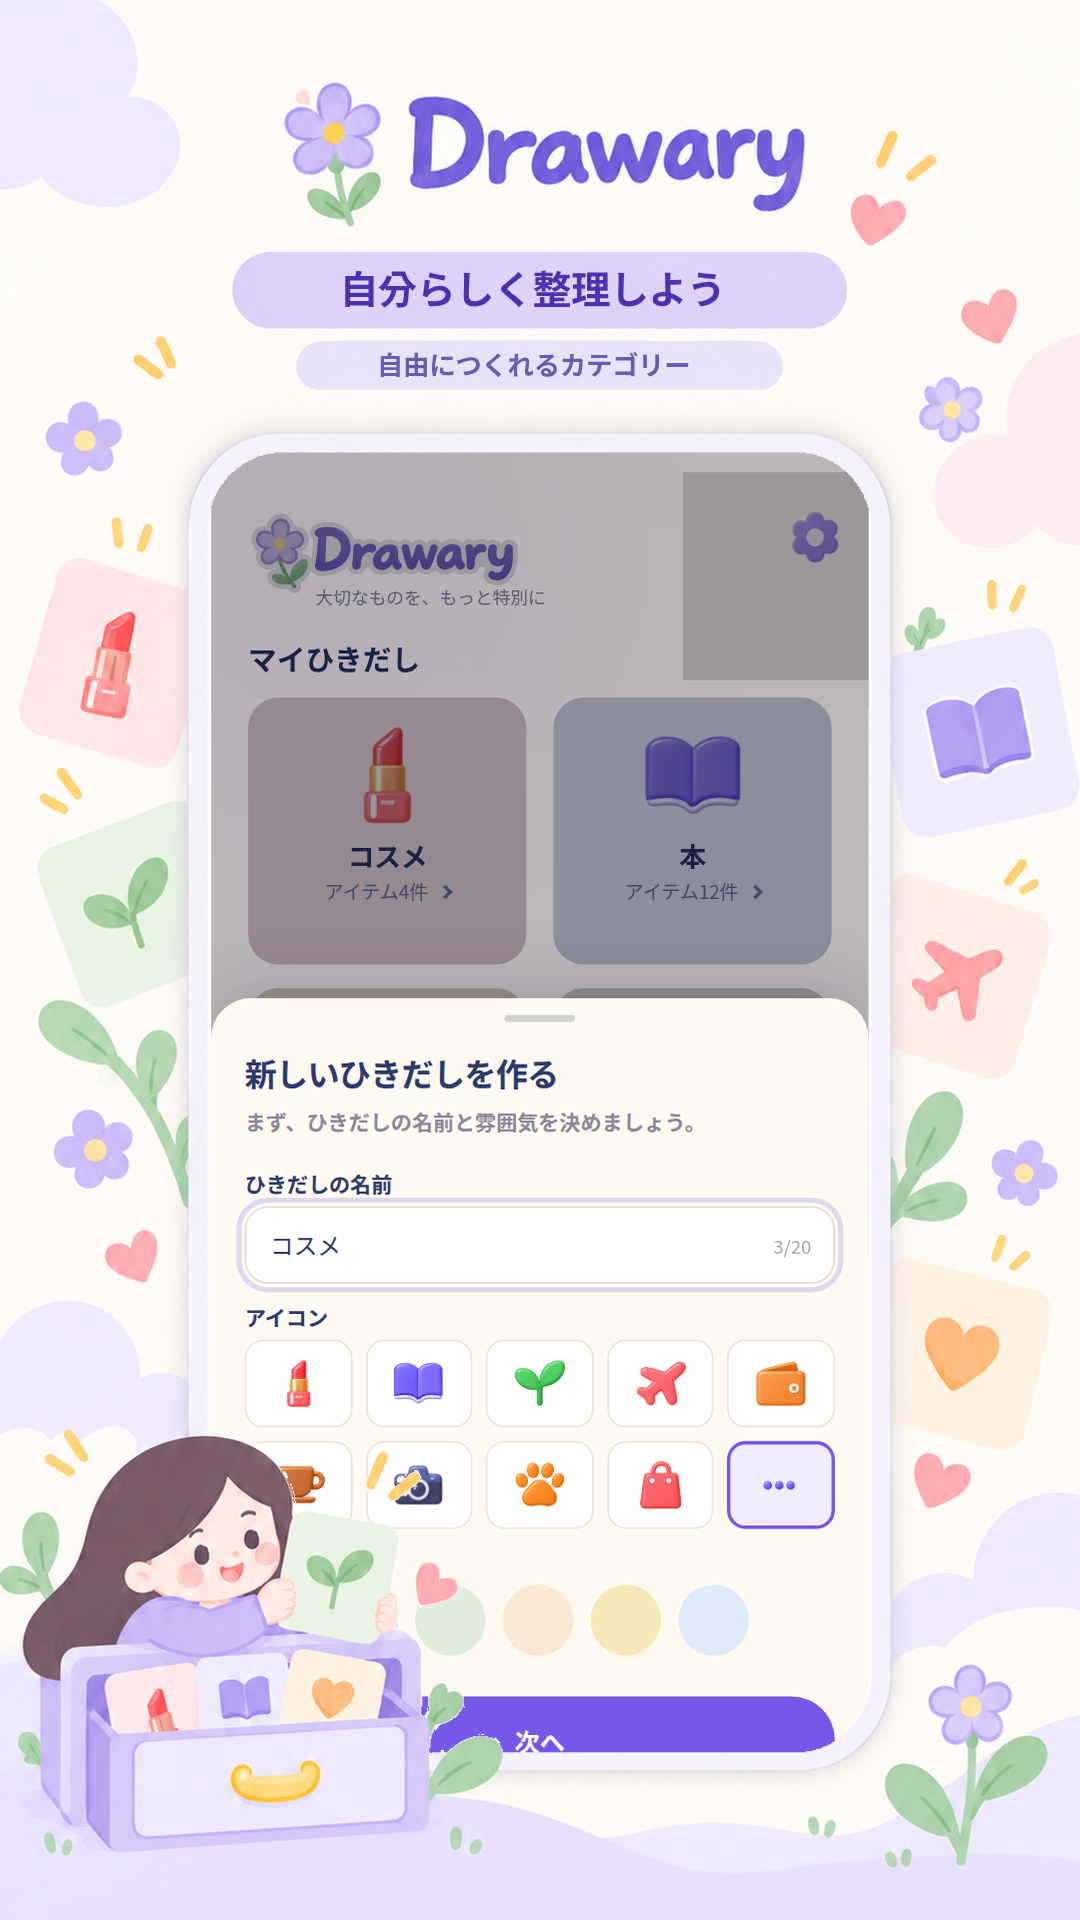
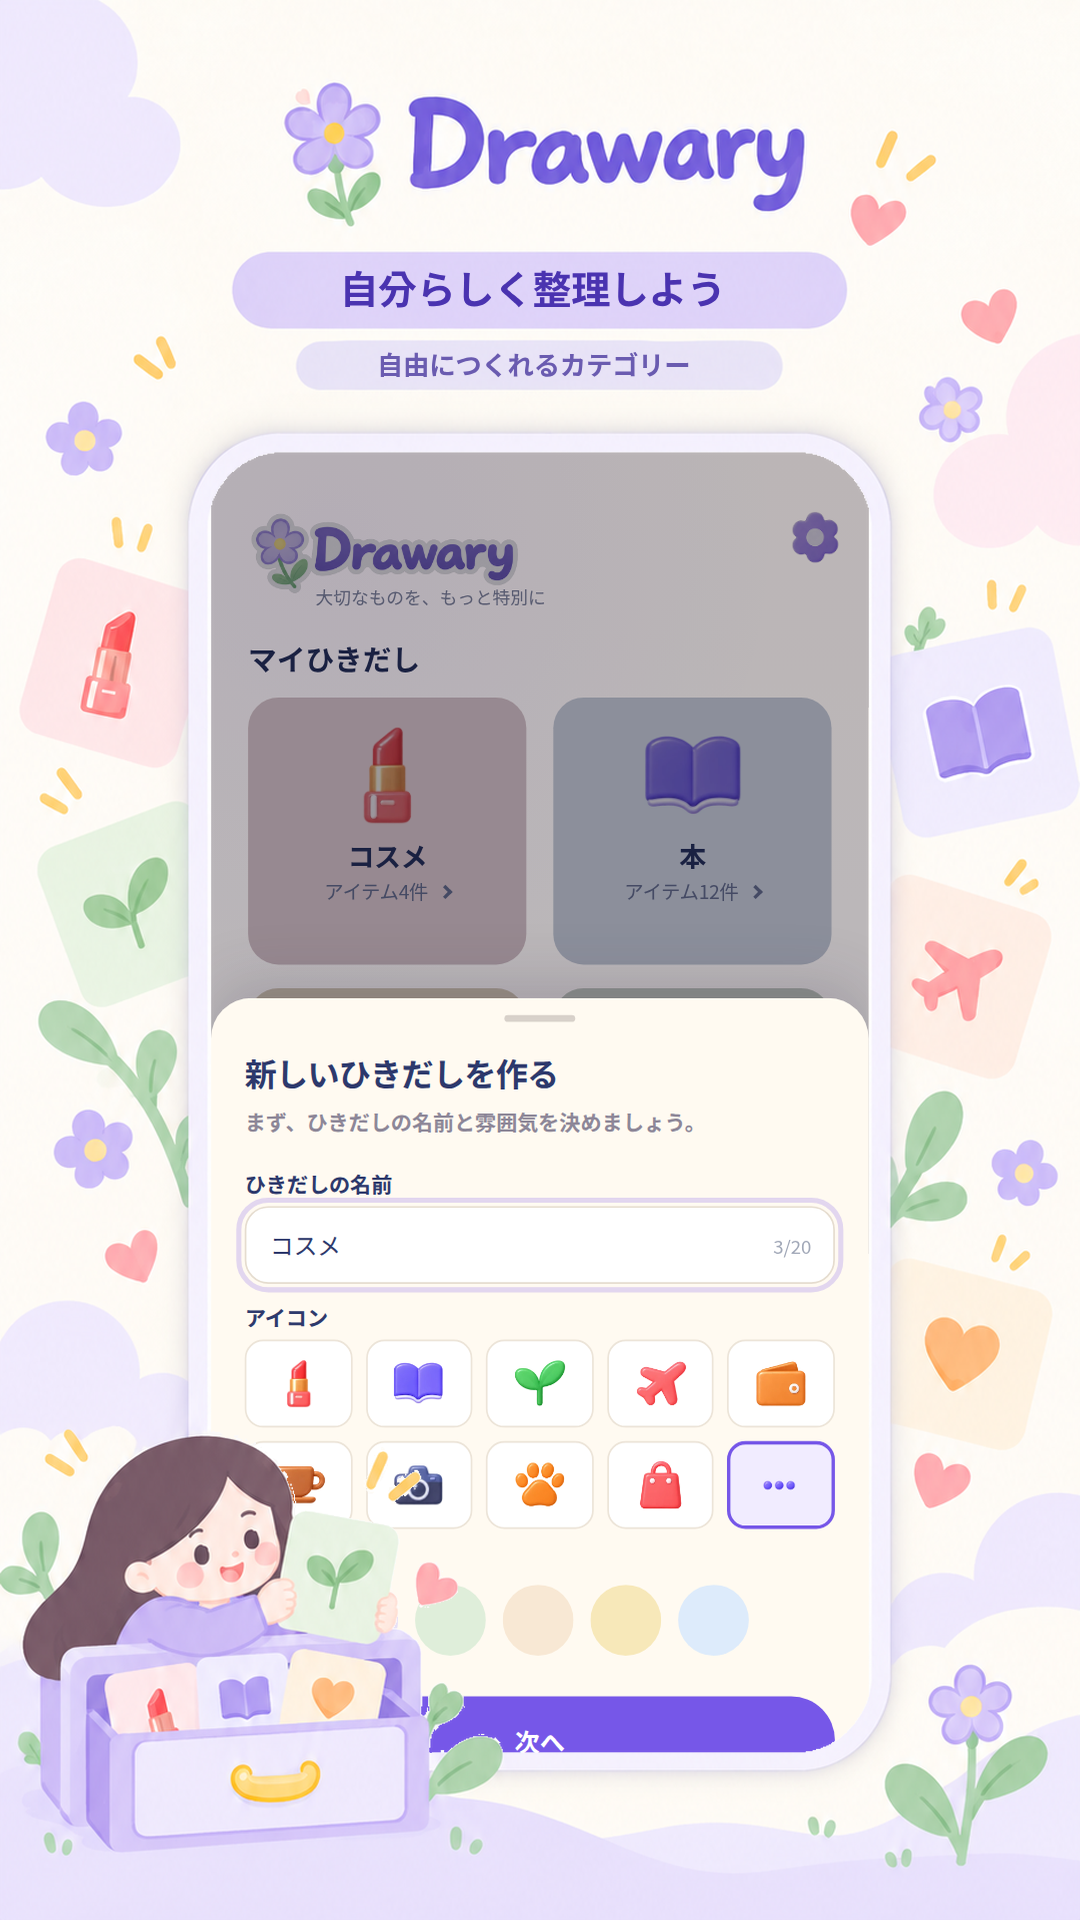
Fix grey box behind the new-drawer sheet (hide counts/edit instead of a dimmed cream box), inner focus outline in the search field; regenerate store screenshots

Changed region(s): [[0.6111, 0.2188, 0.825, 0.375]]

diff --git a/drawary-v2/src/styles.css b/drawary-v2/src/styles.css
@@ -20,11 +20,14 @@ main[data-route="create-drawer"] { position: relative; overflow: hidden; }
 /* Explicit keyboard focus while preserving the fixed final artwork. */
 .drawary-dynamic-bottom-nav__hotspot:focus-visible { outline: 2px solid var(--tc-684de1,#684de1); outline-offset: -5px; border-radius: 14px; }
 
-/* #08 backdrop only: suppress live Home's count label, preserve locked #03. */
+/* #08 backdrop only: the approved backdrop has the flower mark where live Home shows the counts and the 편집 button.
+ * They are hidden (not covered by a cream box: a box is dimmed by the filter above but the themed page gradient behind
+ * the rest of the header is not, so a box showed up as a grey rectangle). */
 .drawary-app-shell[data-route="create-drawer"] .drawary-dimmed-home { position:relative; }
+.drawary-app-shell[data-route="create-drawer"] .drawary-dimmed-home .hs-counts,
+.drawary-app-shell[data-route="create-drawer"] .drawary-dimmed-home .hs-edit { visibility:hidden; }
 .drawary-app-shell[data-route="create-drawer"] .drawary-dimmed-home::after {
   content:""; position:absolute; top:12px; right:0; width:110px; height:123px;
-  background-color:#fffaf2;
   background-image:url('/assets/ui-icons/icon_flower.webp');
   background-position:60px 20px; background-size:37px 37px;
   background-repeat:no-repeat; pointer-events:none;

diff --git a/drawary-v2/src/screens/GlobalSearchScreen.css b/drawary-v2/src/screens/GlobalSearchScreen.css
@@ -82,6 +82,7 @@
   -webkit-appearance: none;
   appearance: none;
 }
+.global-search-box input:focus-visible { outline: 0; } /* other screens' unscoped input:focus-visible rules leak here; the box's own focus ring (above) is the indicator */
 .global-search-box input::placeholder { color: #aaa4b5; }
 /* type="search" inputs get a native clear icon in Chromium once there's a
    value; this screen already has its own clear button (below), so the
